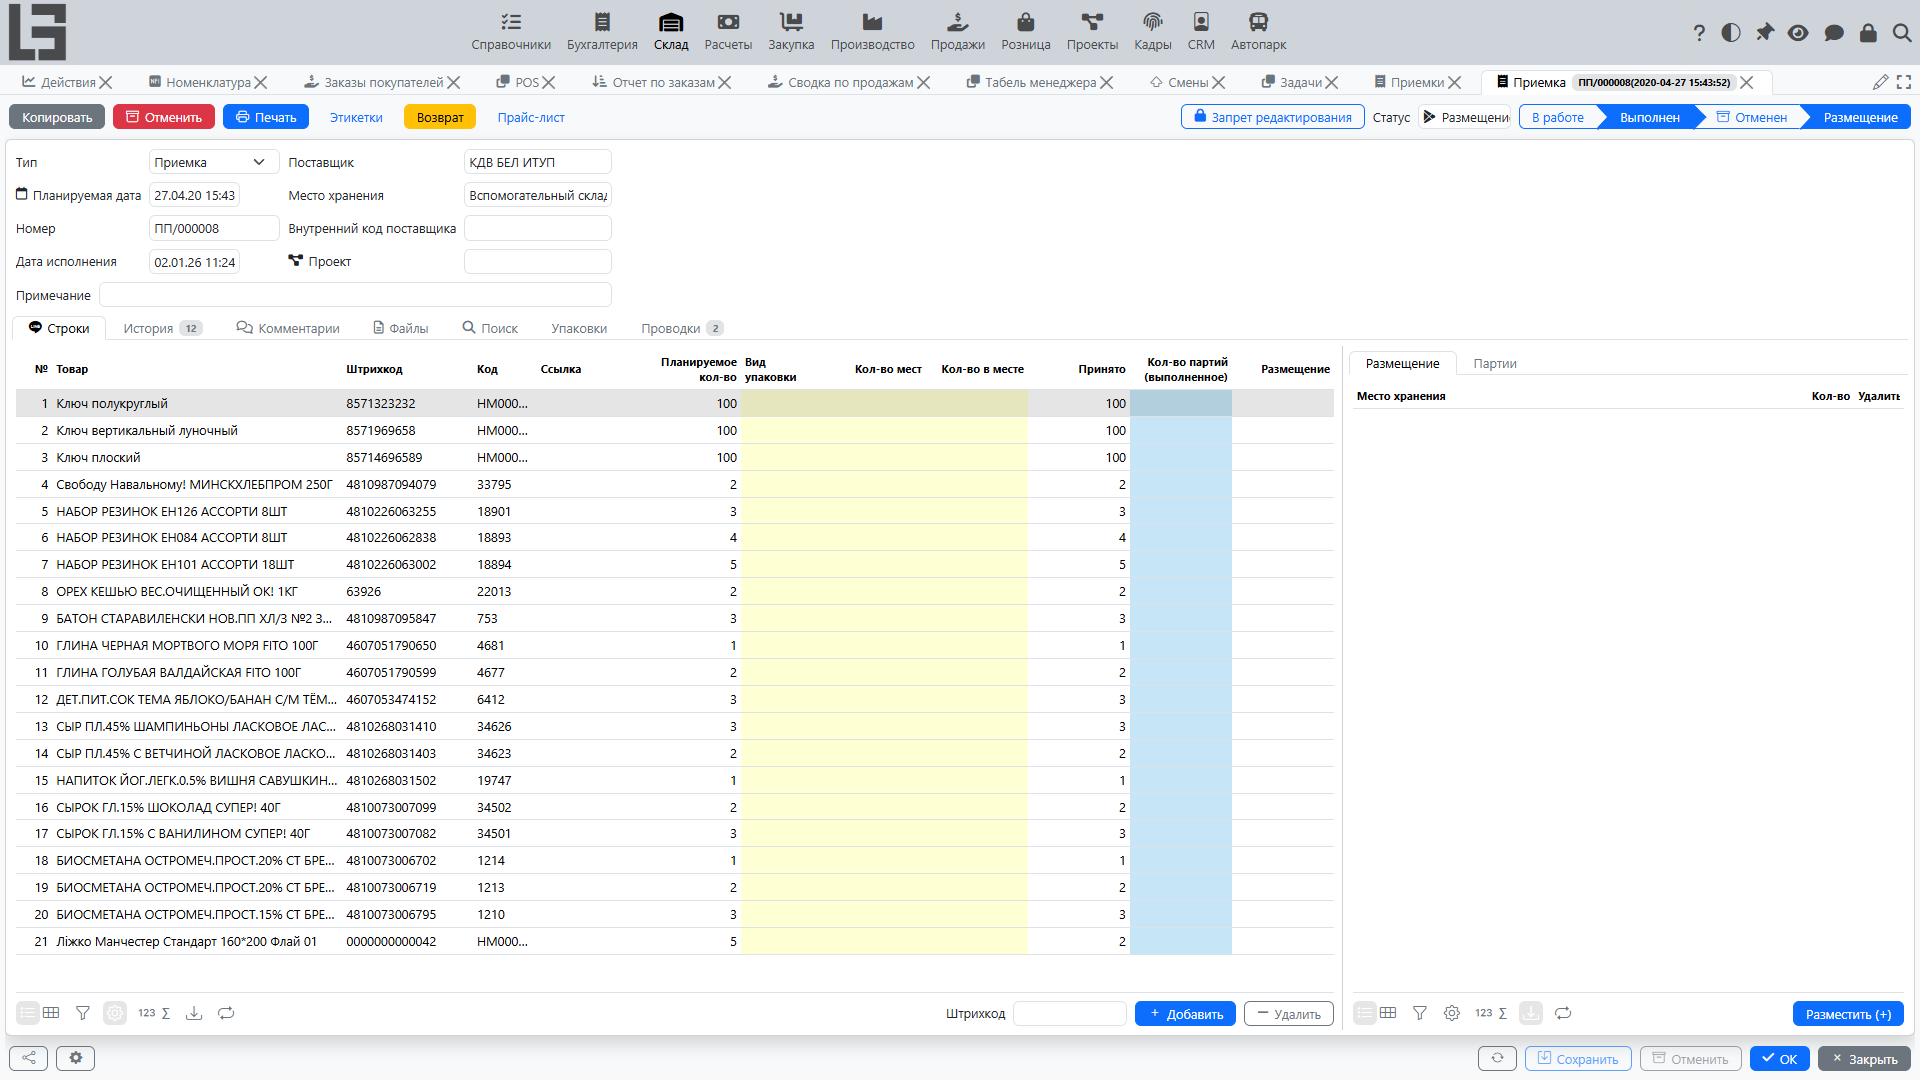
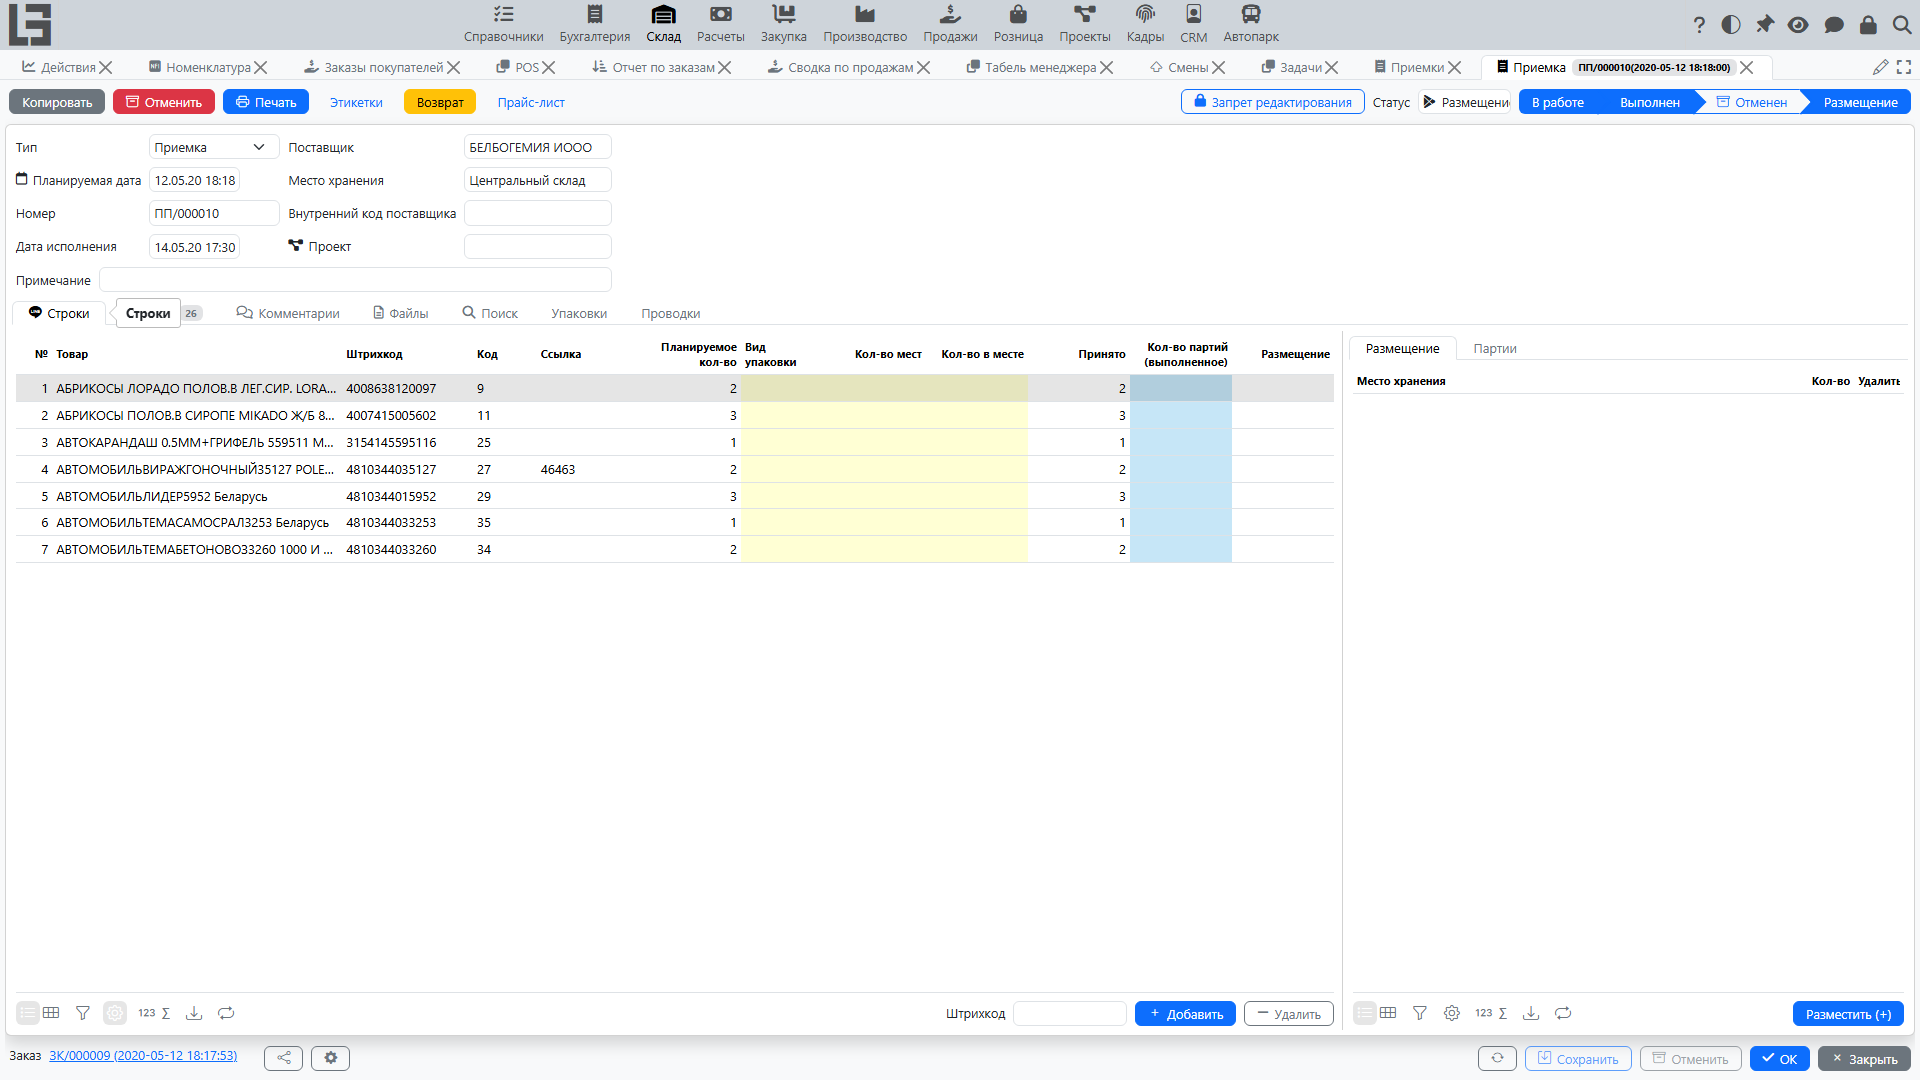
Added screenshots to documentation for Inventory module

diff --git a/src/main/resources/docs/ru/inventory/costing.md b/src/main/resources/docs/ru/inventory/costing.md
@@ -107,6 +107,8 @@ title: Себестоимость товаров (Склад)
 
 Откройте **«Склад» → «Отчеты» → «Себестоимость остатков»**.
 
+![Себестоимость остатков](images/inventory-valuation.png)
+
 Что можно увидеть:
 
 - остаток в количестве;
@@ -123,6 +125,8 @@ title: Себестоимость товаров (Склад)
 ### 2) Форма «Отчет по себестоимости»
 
 Откройте **«Склад» → «Отчеты» → «Отчет по себестоимости»**.
+
+![Отчёт по регистру себестоимости](images/cost-ledger-report.png)
 
 Отчёт показывает движения, формирующие себестоимость (приходы/расходы), с количеством и суммой.
 

diff --git a/src/main/resources/docs/ru/inventory/lots-and-packages.md b/src/main/resources/docs/ru/inventory/lots-and-packages.md
@@ -4,6 +4,8 @@ title: Партии и упаковки
 
 ## Партии
 
+![Список партий](images/lots-list.png)
+
 Партия (серия) используется для прослеживаемости.
 
 Учёт партий управляется несколькими уровнями настроек:
@@ -21,6 +23,8 @@ title: Партии и упаковки
 - в мобильных / сканирующих сценариях система может сопоставлять штрихкод напрямую с партией.
 
 ## Упаковки
+
+![Список упаковок](images/packages-list.png)
 
 Упаковка — это контейнер/мультиединица, идентифицируемая **ID** (и опциональной **ссылкой**), у которой есть собственный список строк с товарами и количествами.
 

diff --git a/src/main/resources/docs/ru/inventory/adjustments.md b/src/main/resources/docs/ru/inventory/adjustments.md
@@ -8,6 +8,8 @@ title: Инвентаризация
 
 ## Типовой процесс
 
+![Карточка инвентаризации](images/adjustment-card.png)
+
 Ниже приведён рекомендуемый порядок действий. Он подходит как для полной инвентаризации места хранения, так и для пересчёта зоны/ячейки.
 
 1. **Подготовка**

diff --git a/src/main/resources/docs/ru/inventory/inventory.md b/src/main/resources/docs/ru/inventory/inventory.md
@@ -46,6 +46,8 @@ title: Склад — пользовательская документация
 
 ## Навигация
 
+![Раздел «Склад» в навигаторе с раскрытыми группами](images/inventory-nav.png)
+
 Раздел «Склад» обычно содержит группы:
 
 - **Операции** — документы ([поступления](receipts.md), [отгрузки и перемещения](shipments.md), [списания](scrap.md), [инвентаризации](adjustments.md)), а также справочники [партий](lots-and-packages.md) и [упаковок](lots-and-packages.md).

diff --git a/src/main/resources/docs/ru/inventory/locations.md b/src/main/resources/docs/ru/inventory/locations.md
@@ -22,6 +22,8 @@ title: Места хранения (склады и зоны)
 
 ## Структура мест хранения
 
+![Список мест хранения с вкладкой «Дерево»](images/locations-list.png)
+
 Места хранения организованы иерархически через единственное поле **«Родитель»**, которое ссылается на другое место хранения. У любого узла могут быть потомки, поэтому глубина произвольная; типовая схема — два или три уровня:
 
 - верхний уровень — склад;

diff --git a/src/main/resources/docs/ru/inventory/reports-and-ledgers.md b/src/main/resources/docs/ru/inventory/reports-and-ledgers.md
@@ -6,6 +6,8 @@ title: Отчёты и регистры
 
 ## Отчёты
 
+![Отчёт по остаткам](images/inventory-report.png)
+
 Чаще всего используются:
 
 - **Отчёт по остаткам** — остатки на дату с произвольными фильтрами и разрезами;

diff --git a/src/main/resources/docs/ru/inventory/scrap.md b/src/main/resources/docs/ru/inventory/scrap.md
@@ -16,6 +16,8 @@ title: Списания
 
 ## Типовой сценарий
 
+![Список списаний](images/scrap-list.png)
+
 1. Создайте документ списания.
 2. Выберите **«Тип»** — он классифицирует причину списания.
 3. Укажите [место хранения](locations.md).

diff --git a/src/main/resources/docs/ru/inventory/settings.md b/src/main/resources/docs/ru/inventory/settings.md
@@ -8,6 +8,8 @@ title: Настройки склада
 
 ## Что обычно настраивается
 
+![Форма «Настройки» модуля «Склад»](images/settings.png)
+
 - типы [поступлений](receipts.md) и [отгрузок](shipments.md) (их нумерация, места хранения по умолчанию, максимальное количество);
 - использование [перемещений](transfers.md) ([отгрузка](shipments.md) с признаком **«Перемещение»**);
 - типы [инвентаризации](adjustments.md) и [списания](scrap.md);

diff --git a/src/main/resources/docs/ru/inventory/shipments.md b/src/main/resources/docs/ru/inventory/shipments.md
@@ -49,6 +49,8 @@ title: Отгрузки и перемещения
 
 ## Карточка отгрузки
 
+![Карточка отгрузки](images/shipment-card.png)
+
 ### Шапка документа
 
 В шапке отгрузки обычно указываются: